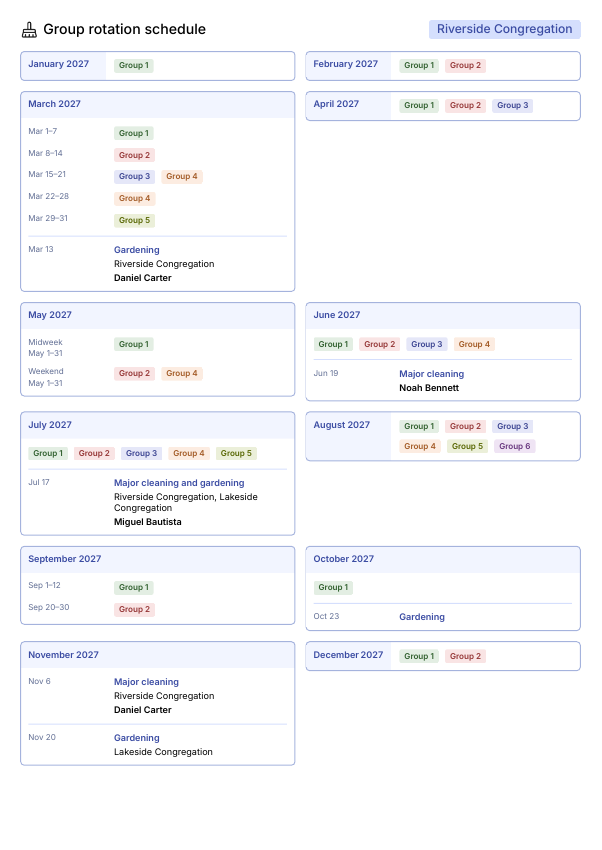
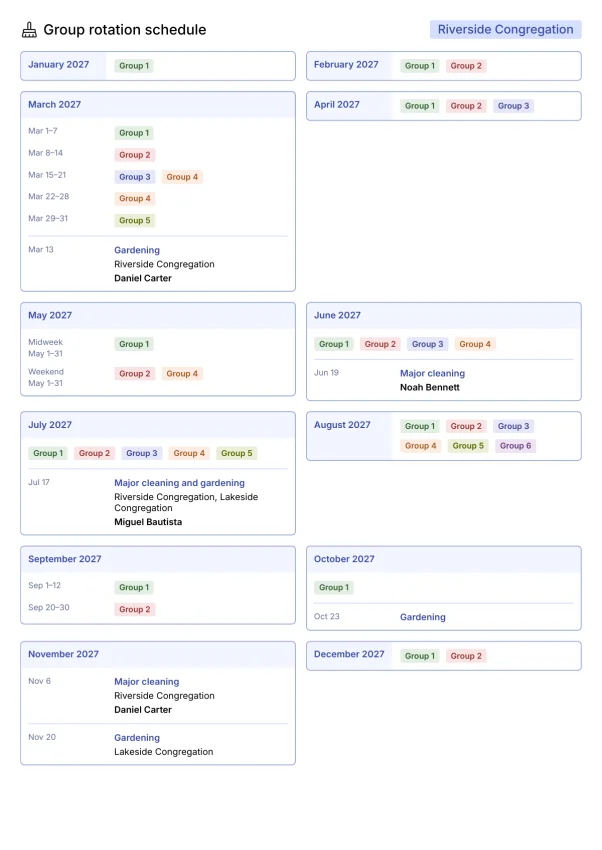
fix(activities): align group schedule date columns

diff --git a/src/views/activities/hall_cleaning/CleaningRotation.tsx b/src/views/activities/hall_cleaning/CleaningRotation.tsx
@@ -120,15 +120,35 @@ const CleaningRotation = ({ groups, turns, rows }: CleaningMonthCardsProps) => {
                   ...frameStyle,
                 }}
               >
-                <View style={{ flexDirection: 'row', alignItems: 'stretch' }}>
+                <View
+                  style={{
+                    flexDirection: 'row',
+                    alignItems: 'stretch',
+                    padding: inlineTurn ? 8 : 0,
+                    gap: inlineTurn ? 8 : 0,
+                  }}
+                >
+                  {inlineTurn && (
+                    <View
+                      style={{
+                        position: 'absolute',
+                        top: 0,
+                        bottom: 0,
+                        left: 0,
+                        width: DATE_WIDTH + 8,
+                        backgroundColor: styles.listDate.backgroundColor,
+                      }}
+                    />
+                  )}
                   <View
                     style={{
                       flexDirection: 'row',
                       alignItems: 'flex-start',
                       gap: 8,
-                      padding: '8px',
+                      padding: inlineTurn ? 0 : 8,
                       backgroundColor: styles.listDate.backgroundColor,
-                      width: inlineTurn ? DATE_WIDTH + 8 : '100%',
+                      width: inlineTurn ? DATE_WIDTH : '100%',
+                      flexShrink: 0,
                     }}
                   >
                     <Text
@@ -147,7 +167,7 @@ const CleaningRotation = ({ groups, turns, rows }: CleaningMonthCardsProps) => {
                       style={{
                         flex: 1,
                         justifyContent: 'flex-start',
-                        padding: 8,
+                        minWidth: 0,
                       }}
                     >
                       <RotationGroups
